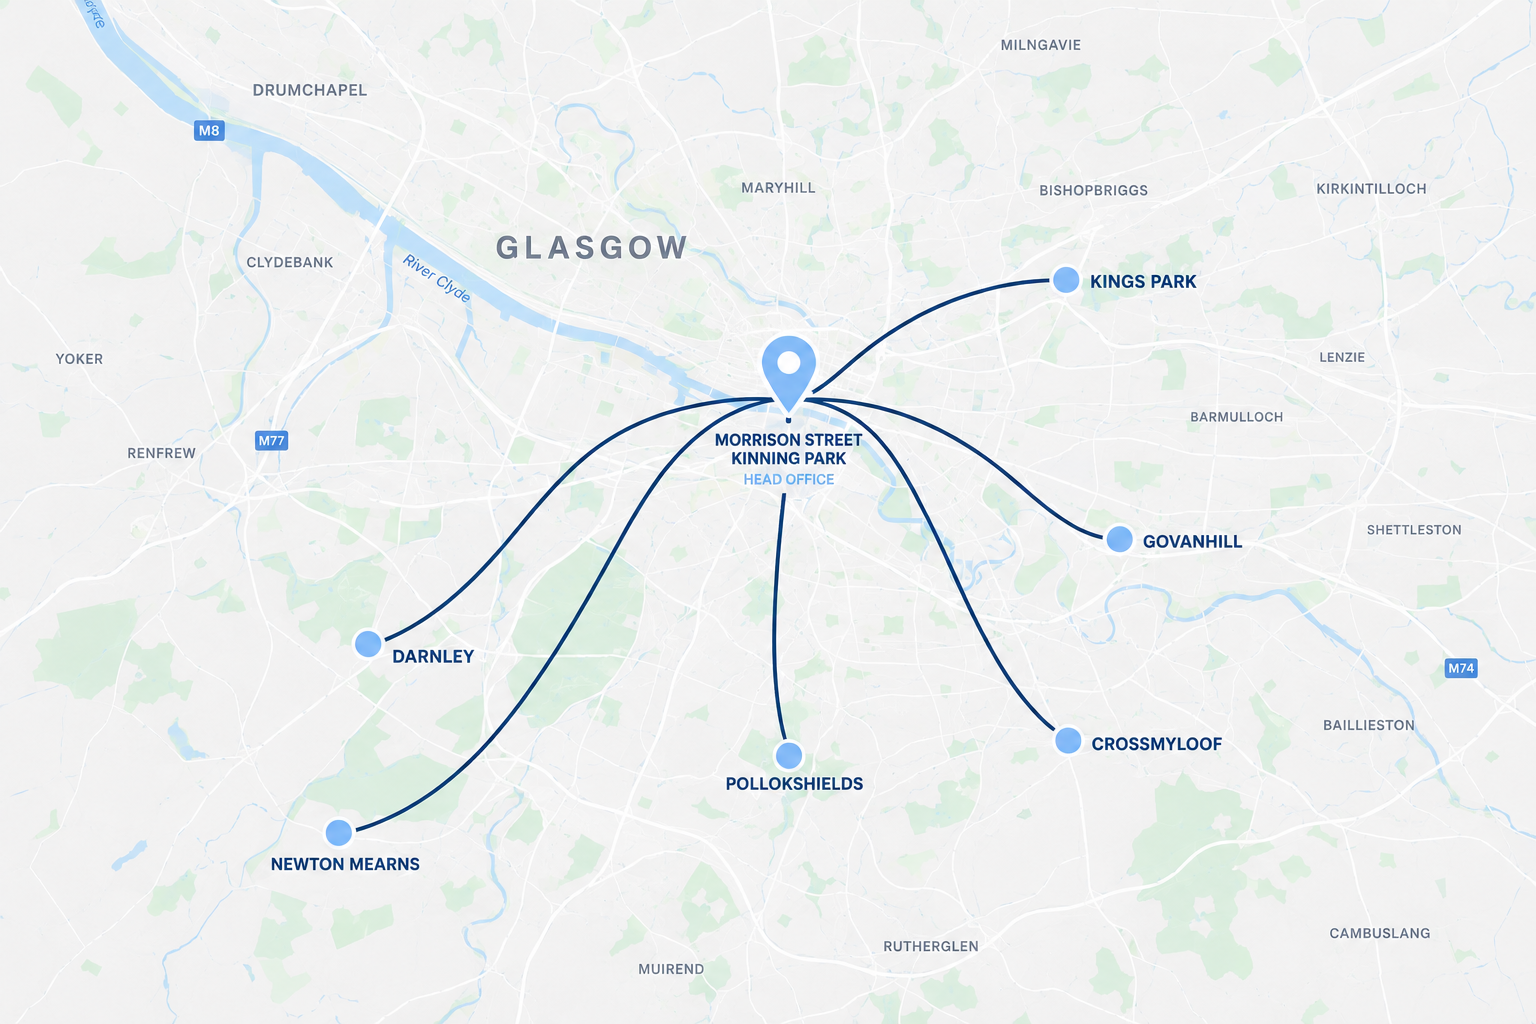
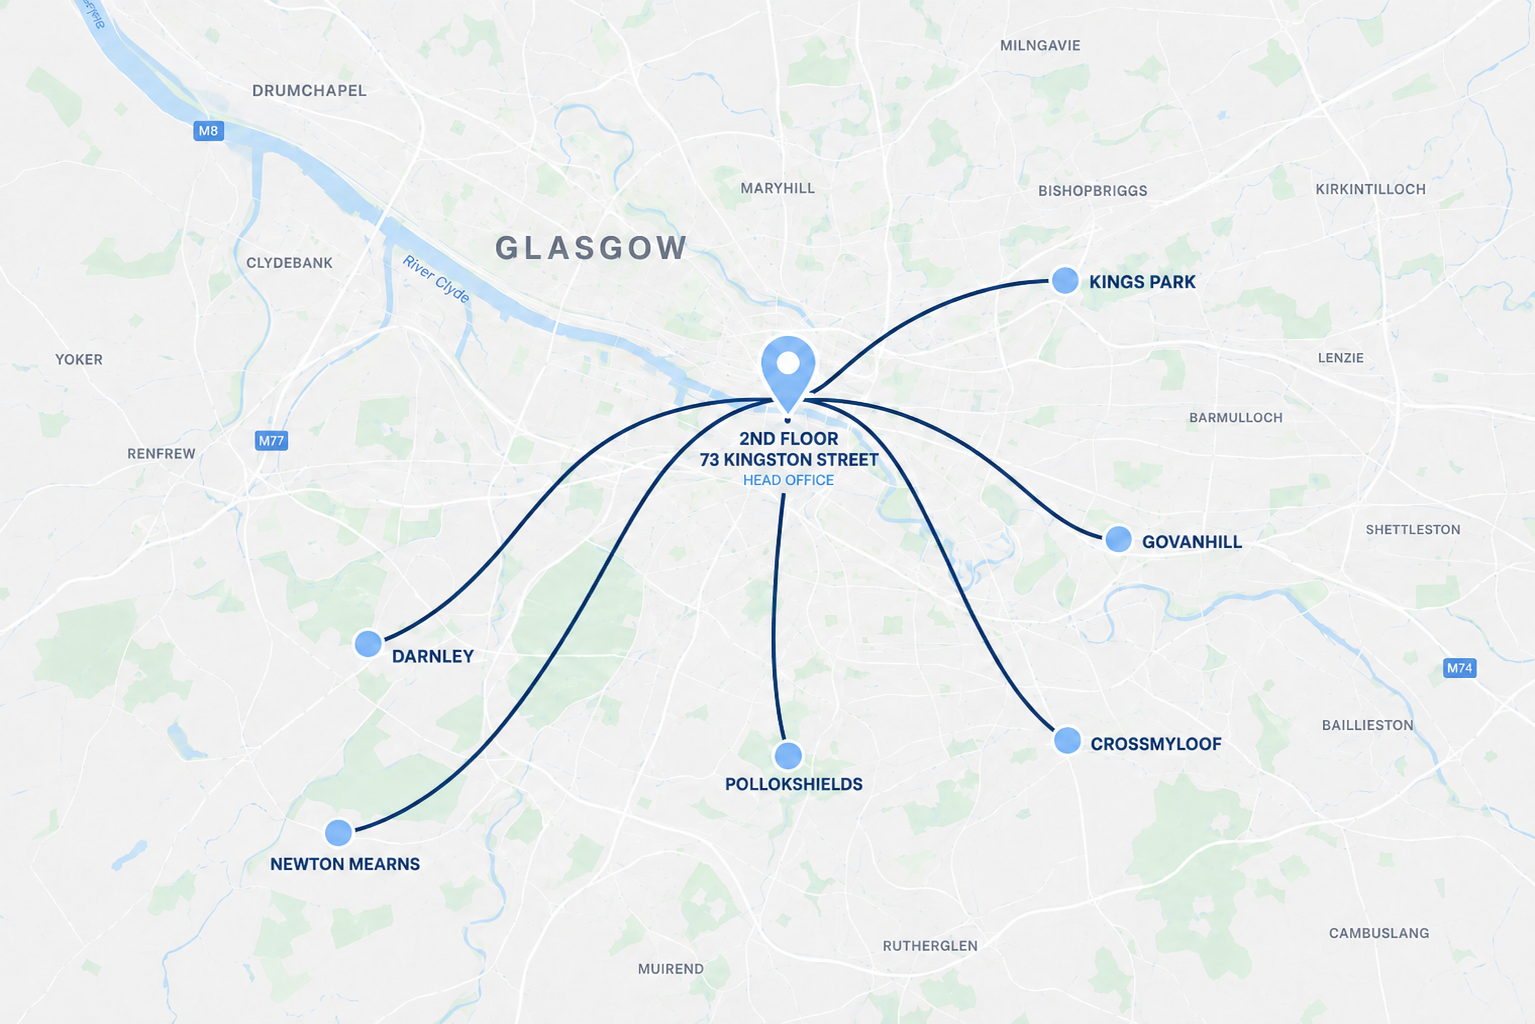
minor changes

diff --git a/index.html b/index.html
@@ -206,7 +206,7 @@
       <!-- TOP: Head Office Card (Full Width) -->
       <div class="grid-card" style="text-align: center; padding: 2.5rem;">
         <h3 style="color: var(--dark-navy); margin-bottom: 1rem;">Head Office</h3>
-        <p style="margin-bottom: 0.5rem; color: var(--text-dark);">📍3rd Floor 73 Kingston Street | G5 8BJ</p>
+        <p style="margin-bottom: 0.5rem; color: var(--text-dark);">📍2nd Floor 73 Kingston Street | G5 8BJ</p>
         <p style="margin-bottom: 0.5rem;">✉ <a href="mailto:headoffice@platinum-carers.co.uk" style="color: var(--dark-navy); text-decoration: none; font-weight: 500;">headoffice@platinum-carers.co.uk</a></p>
         <p style="margin-bottom: 0; color: var(--text-dark);"><strong>📞 01234 567 890</strong></p>
       </div>
@@ -315,7 +315,7 @@
           <li style="color: var(--white); font-weight: 600;">Head Office</li>
           <li>📞 01234 567 890</li>
           <li><a href="mailto:headoffice@platinum-carers.com">headoffice@platinum-carers.com</a></li>
-          <li>📍 3rd Floor 73 Kingston Street | G5 8BJ</li>
+          <li>📍 2rd Floor 73 Kingston Street | G5 8BJ</li>
         </ul>
       </div>
 

diff --git a/pp.html b/pp.html
@@ -383,7 +383,7 @@
           <li style="color: var(--bg-white); font-weight: 600;">Head Office</li>
           <li>📞 01234 567 890</li>
           <li><a href="mailto:head-office@platinum-carers.com">head-office@platinum-carers.com</a></li>
-          <li>📍 3rd Floor 73 Kingston Street | G5 8BJ</li>
+          <li>📍 2nd Floor 73 Kingston Street | G5 8BJ</li>
         </ul>
       </div>
 

diff --git a/domestic.html b/domestic.html
@@ -111,7 +111,7 @@
           <li style="color: var(--bg-white); font-weight: 600;">Head Office</li>
           <li>📞 01234 567 890</li>
           <li><a href="mailto:headoffice@platinum-carers.com">headoffice@platinum-carers.com</a></li>
-          <li>📍 3rd Floor 73 Kingston Street | G5 8BJ</li>
+          <li>📍 2nd Floor 73 Kingston Street | G5 8BJ</li>
         </ul>
       </div>
 

diff --git a/livein.html b/livein.html
@@ -111,7 +111,7 @@
           <li style="color: var(--bg-white); font-weight: 600;">Head Office</li>
           <li>📞 01234 567 890</li>
           <li><a href="mailto:headoffice@platinum-carers.com">headoffice@platinum-carers.com</a></li>
-          <li>📍 3rd Floor 73 Kingston Street | G5 8BJ</li>
+          <li>📍 2nd Floor 73 Kingston Street | G5 8BJ</li>
         </ul>
       </div>
 

diff --git a/mealprep.html b/mealprep.html
@@ -111,7 +111,7 @@
           <li style="color: var(--bg-white); font-weight: 600;">Head Office</li>
           <li>📞 01234 567 890</li>
           <li><a href="mailto:headoffice@platinum-carers.com">headoffice@platinum-carers.com</a></li>
-          <li>📍 3rd Floor 73 Kingston Street | G5 8BJ</li>
+          <li>📍 2nd Floor 73 Kingston Street | G5 8BJ</li>
         </ul>
       </div>
 

diff --git a/medication.html b/medication.html
@@ -111,7 +111,7 @@
           <li style="color: var(--bg-white); font-weight: 600;">Head Office</li>
           <li>📞 01234 567 890</li>
           <li><a href="mailto:headoffice@platinum-carers.com">headoffice@platinum-carers.com</a></li>
-          <li>📍 3rd Floor 73 Kingston Street | G5 8BJ</li>
+          <li>📍 2nd Floor 73 Kingston Street | G5 8BJ</li>
         </ul>
       </div>
 

diff --git a/personalcare.html b/personalcare.html
@@ -111,7 +111,7 @@
           <li style="color: var(--bg-white); font-weight: 600;">Head Office</li>
           <li>📞 01234 567 890</li>
           <li><a href="mailto:headoffice@platinum-carers.com">headoffice@platinum-carers.com</a></li>
-          <li>📍 3rd Floor 73 Kingston Street | G5 8BJ</li>
+          <li>📍 2nd Floor 73 Kingston Street | G5 8BJ</li>
         </ul>
       </div>
 

diff --git a/tou.html b/tou.html
@@ -468,7 +468,7 @@
                 >head-office@platinum-carers.com</a
               >
             </li>
-            <li>📍 3rd Floor 73 Kingston Street | G5 8BJ</li>
+            <li>📍 2nd Floor 73 Kingston Street | G5 8BJ</li>
           </ul>
         </div>
 

diff --git a/cookies.html b/cookies.html
@@ -415,7 +415,7 @@
                 >head-office@platinum-carers.com</a
               >
             </li>
-            <li>📍 41 Morrison Street, Glasgow, G5 8LB</li>
+            <li>📍 2nd Floor 73 Kingston Street | G5 8BJ</li>
           </ul>
         </div>
 

diff --git a/safeguarding.html b/safeguarding.html
@@ -518,7 +518,7 @@
                 >head-office@platinum-carers.com</a
               >
             </li>
-            <li>📍 41 Morrison Street, Glasgow, G5 8LB</li>
+            <li>📍 2nd Floor 73 Kingston Street | G5 8BJ</li>
           </ul>
         </div>
 
